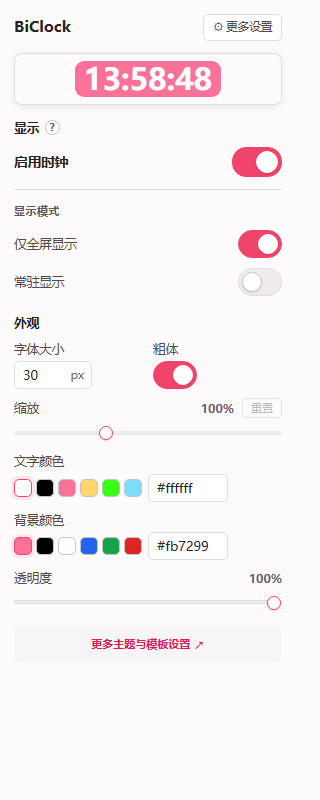
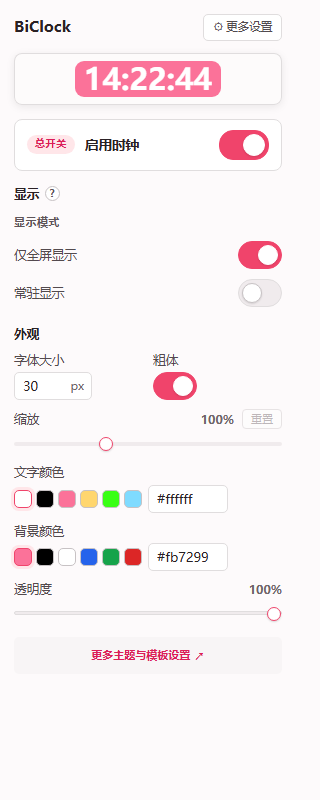
feat(options): restructure master toggle for clock enabling with improved styling

diff --git a/popup.html b/popup.html
@@ -23,23 +23,28 @@
         <span class="preview-disabled-text">时钟已关闭</span>
     </div>
 
-    <fieldset>
+    <!-- L1 总开关：启用时钟（与 hiddenForever 反向；勾上即代表"开"）。
+         独立卡片，位于 popup 最高层级，不属于任何分区——与 options 页一致，
+         这样关闭时钟后此卡片仍可用，用户能随时重新启用。 -->
+    <fieldset class="master-toggle-card">
+        <span class="master-toggle-eyebrow">总开关</span>
+        <span class="master-toggle-label">
+            <span class="master-toggle-name">启用时钟</span>
+        </span>
+        <label class="toggle master-toggle-switch">
+            <input type="checkbox" id="clockEnabled">
+            <span class="toggle-track" aria-hidden="true">
+                <span class="toggle-thumb"></span>
+            </span>
+        </label>
+    </fieldset>
+
+    <fieldset class="is-clock-config">
         <legend class="legend-tip">
             显示
             <span class="help-tip" tabindex="0" role="button" aria-label="显示设置说明">
                 <span class="help-icon" aria-hidden="true">?</span>
                 <span class="help-bubble">
-                    <span class="help-item" data-help-key="clockEnabled">
-                        <span class="help-item-title">启用时钟</span>
-                        <span class="help-item-line" data-state="on">
-                            <span class="help-tag">开</span>
-                            <span class="help-item-text">按下方显示模式判断是否显示</span>
-                        </span>
-                        <span class="help-item-line" data-state="off">
-                            <span class="help-tag">关</span>
-                            <span class="help-item-text">不显示时钟</span>
-                        </span>
-                    </span>
                     <span class="help-item" data-help-key="fullscreenOnly">
                         <span class="help-item-title">仅全屏显示</span>
                         <span class="help-item-line" data-state="on">
@@ -66,21 +71,8 @@
             </span>
         </legend>
 
-        <!-- L1 总开关：启用时钟（与 hiddenForever 反向；勾上即代表"开"）。 -->
-        <label class="master-toggle">
-            <span class="master-toggle-label">
-                <span class="master-toggle-name">启用时钟</span>
-            </span>
-            <span class="toggle master-toggle-switch">
-                <input type="checkbox" id="clockEnabled">
-                <span class="toggle-track" aria-hidden="true">
-                    <span class="toggle-thumb"></span>
-                </span>
-            </span>
-        </label>
-
-        <!-- L2 显示模式：关闭时钟时一并折叠。 -->
-        <div class="sub-group is-clock-config">
+        <!-- L2 显示模式：随整个显示分区折叠（分区本身带 is-clock-config）。 -->
+        <div class="sub-group">
             <h3 class="sub-group-title">显示模式</h3>
             <div class="toggle-line">
                 <span class="toggle-line-text">仅全屏显示</span>

diff --git a/popup.css b/popup.css
@@ -898,32 +898,42 @@ input[type="checkbox"]:focus-visible {
 }
 
 /* ============================================================
-   显示分区独有：L1 总开关（启用时钟）+ L2 子项分组（显示模式）。
-   关闭时钟（=总开关未勾选）时，L2 与下方所有 is-clock-config 一起折叠。
+   L1 总开关（启用时钟）：独立卡片，位于 popup 最高层级，
+   不属于任何分区——与 options 页一致。关闭后下方所有
+   is-clock-config 设置（显示 / 外观 / 预览）一并折叠，
+   只留这张卡片与底部「更多设置」始终可用。
    ============================================================ */
 
-/* L1 总开关：横排「标签 + 描述 + toggle」。
-   不加边框 / 不加底色 —— 用更大的字号、字重、间距建立层级。 */
-.master-toggle {
+.master-toggle-card {
     display: flex;
     align-items: center;
-    justify-content: space-between;
     gap: 10px;
-    padding: 2px 0 12px;
-    margin-bottom: 4px;
-    border-bottom: 1px solid var(--border);
+    padding: 10px 12px;
+    margin: 0;
+    border: 1px solid var(--border);
+    border-radius: var(--radius);
+    background: var(--surface);
+}
+
+.master-toggle-eyebrow {
+    flex: none;
+    padding: 2px 8px;
+    border-radius: 999px;
+    background: var(--pink-soft);
+    color: var(--pink-hi);
+    font-size: 10px;
+    font-weight: 700;
+    letter-spacing: 0.06em;
 }
 
 .master-toggle-label {
-    display: flex;
-    flex-direction: column;
-    gap: 2px;
     min-width: 0;
+    flex: 1 1 auto;
 }
 
 .master-toggle-name {
     font-size: 13.5px;
-    font-weight: 600;
+    font-weight: 650;
     color: var(--ink);
 }
 
@@ -949,7 +959,7 @@ input[type="checkbox"]:focus-visible {
 
 /* L2 子项分组：标题 + 普通 toggle 行 */
 .sub-group {
-    padding-top: 10px;
+    padding-top: 4px;
 }
 
 .sub-group-title {

diff --git a/popup.js b/popup.js
@@ -212,9 +212,8 @@ function updateSwatchSelection() {
 
 function updateHelpActiveStates() {
     var map = [
-        // 总开关在 UI 上是「启用时钟」（与 hiddenForever 反向）；
-        // help-bubble 的 data-help-key 也跟着 UI 改名，这里 on 用 !hiddenForever。
-        { key: 'clockEnabled',   on: !config.hiddenForever },
+        // 总开关（启用时钟）在 popup 是裸卡片，没有 help-bubble，
+        // 所以这里只剩「显示」分区下的两项需要高亮当前态。
         { key: 'fullscreenOnly', on: config.fullscreenOnly !== false },
         { key: 'alwaysShow',     on: !!config.alwaysShow }
     ];
